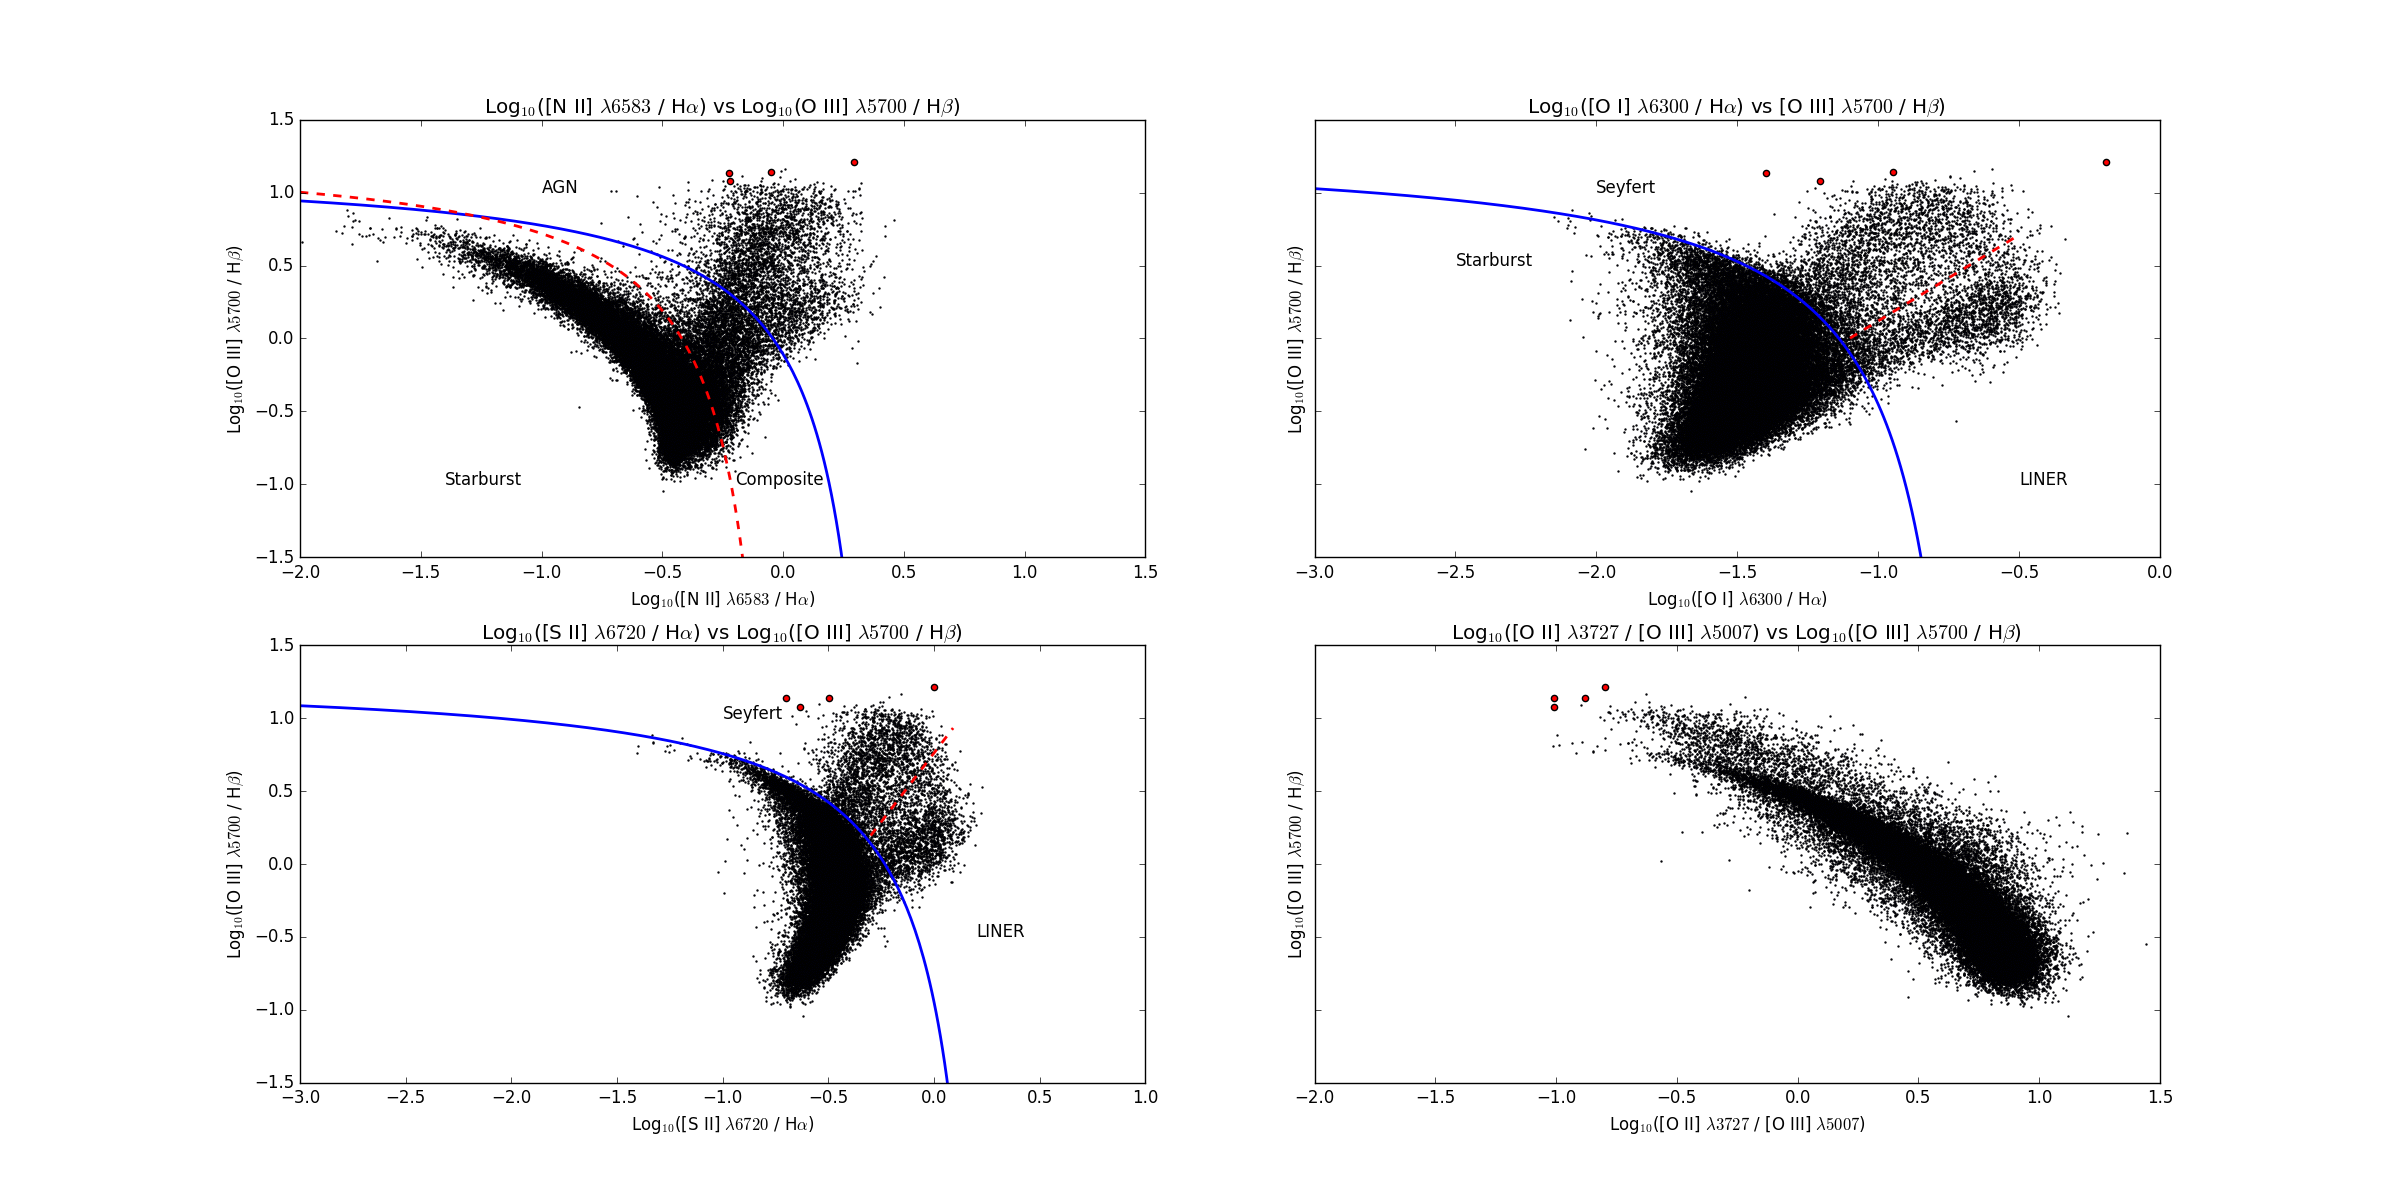
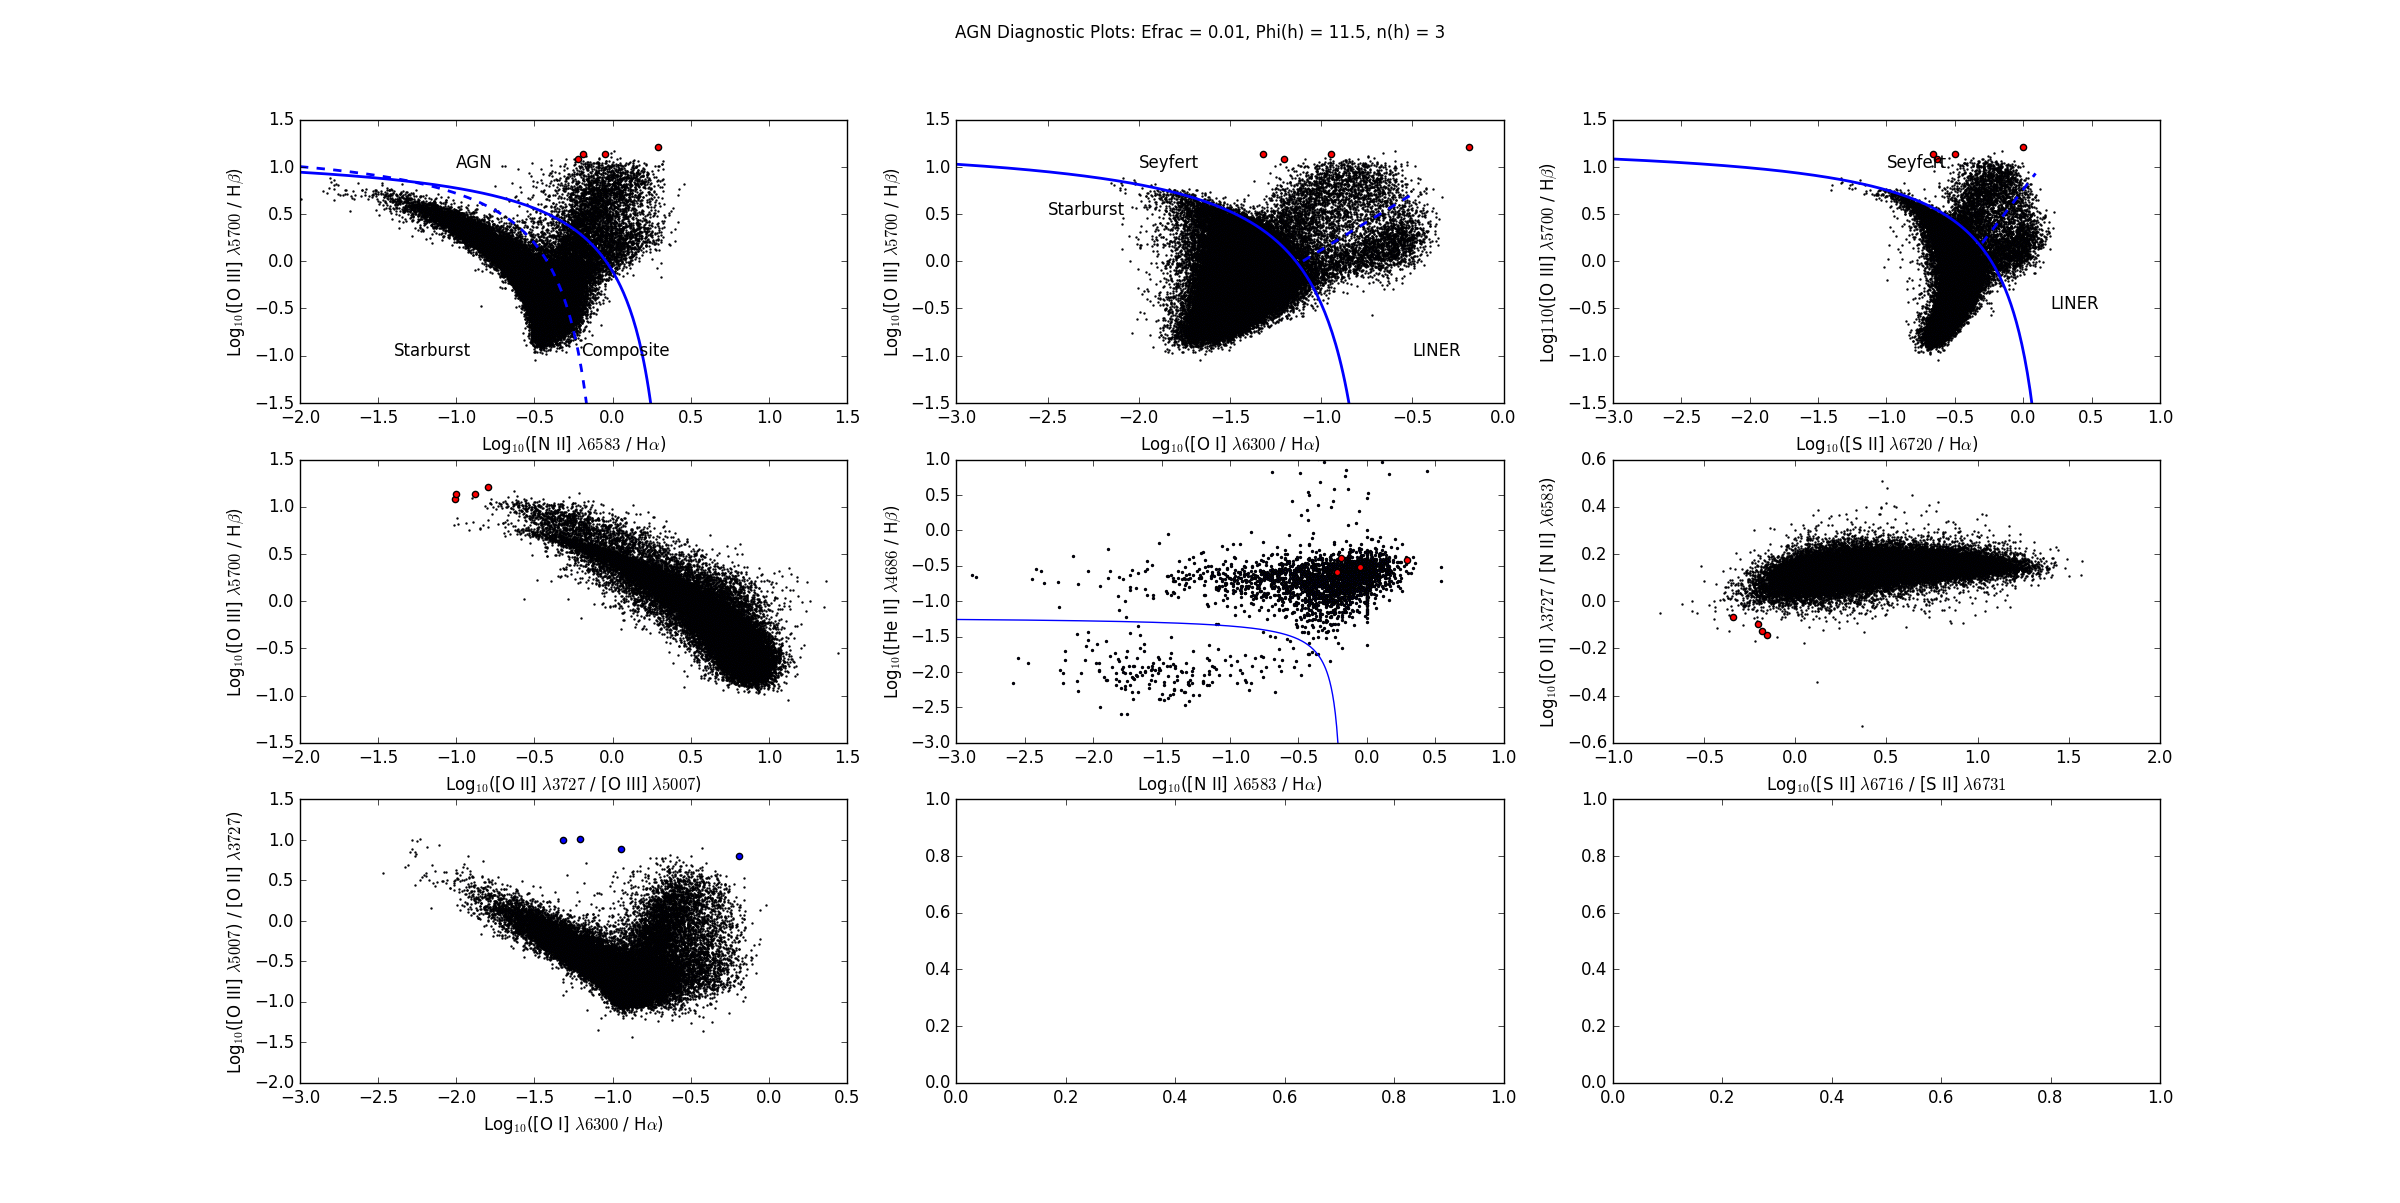
I forgot to upload these last night.  Made the supertitles for all the plots and did the plots with the new phi(h) value.  Looking better, but I think our metallicity might be wrong.  I'm running sims with 3 times solar metallicity and 1 solar metallicity just to see what changes.

diff --git a/DiagnosticPlots.py b/DiagnosticPlots.py
@@ -37,7 +37,7 @@ d2=pd.DataFrame({'Temperature': ['10^4','10^5', '10^6', '10^7']},dtype=object) #
 
 for root, dirs, files in os.walk(rootdirectory, topdown=False):
     for name in files:
-        if name.startswith('Efrac_01') and name.endswith('.lin'):
+        if name.startswith('PhiH144771') and name.endswith('.lin'):
             print name
             #only read columns from list cols
             dfs.append(pd.read_csv(os.path.join(root, name), delimiter="\t", usecols=['TOTL  4861A','O  3  5007A', 'NE 5  3426A', 'NE 3  3869A',
@@ -84,7 +84,7 @@ y2 = 1.3+np.divide(0.61,x2-0.05)
 ax1.scatter(np.log10(np.divide(SDSS_Data[18],SDSS_Data[17])),np.log10(np.divide(SDSS_Data[13],SDSS_Data[11])), s=0.5, c='b')
 ax1.scatter(d['N II / H-Alpha'],d['O III / H-Beta'], c= 'r')
 ax1.plot(x1,y1,'b-',x2,y2,'b--',linewidth = 2)
-ax1.set_title(r'Log$_{10}$([N II] $\lambda 6583$ / H$\alpha$) vs Log$_{10}$(O III] $\lambda 5700$ / H$\beta$) ')
+#ax1.set_title(r'Log$_{10}$([N II] $\lambda 6583$ / H$\alpha$) vs Log$_{10}$(O III] $\lambda 5700$ / H$\beta$) ')
 ax1.set_ylim(np.log10(10**(-1.5)), np.log10(10**(1.5)))
 ax1.set_xlim(np.log10(10**(-2)), np.log10(10**1.5))
 ax1.set_ylabel(r'Log$_{10}$([O III] $\lambda 5700$ / H$\beta$)')
@@ -100,8 +100,8 @@ y4 = 1.18*x4+1.3
 ax2.scatter(np.log10(np.divide(SDSS_Data[15],SDSS_Data[17])),np.log10(np.divide(SDSS_Data[13],SDSS_Data[11])), s=0.5, c='b')
 ax2.scatter(d['O I / H-Alpha'],d['O III / H-Beta'], c='r')
 ax2.plot(x3,y3,x4,y4,'b--',linewidth = 2)
-ax2.set_title(r'(Log$_{10}$([O I] $\lambda 6300$ / H$\alpha$) vs [O III] $\lambda 5700$ / H$\beta$) ')
-ax2.set_title(r'Log$_{10}$([O I] $\lambda 6300$ / H$\alpha$) vs [O III] $\lambda 5700$ / H$\beta$) ')
+#ax2.set_title(r'(Log$_{10}$([O I] $\lambda 6300$ / H$\alpha$) vs [O III] $\lambda 5700$ / H$\beta$) ')
+#ax2.set_title(r'Log$_{10}$([O I] $\lambda 6300$ / H$\alpha$) vs [O III] $\lambda 5700$ / H$\beta$) ')
 ax2.set_ylim(np.log10(10**(-1.5)), np.log10(10**(1.5)))
 ax2.set_xlim(np.log10(10**(-3)),np.log10(10**0))
 ax2.set_ylabel(r'Log$_{10}$([O III] $\lambda 5700$ / H$\beta$)')
@@ -118,17 +118,17 @@ y6 = 1.89 * x6 + 0.76
 ax3.scatter(np.log10(np.divide(np.add(SDSS_Data[19],SDSS_Data[20]),SDSS_Data[17])),np.log10(np.divide(SDSS_Data[13],SDSS_Data[11])), s=0.5, c='b')
 ax3.scatter(d['S II / H-Alpha'],d['O III / H-Beta'],c = 'r')
 ax3.plot(x5,y5,x6,y6, 'b--',linewidth=2)
-ax3.set_title(r'Log$_{10}$([S II] $\lambda 6720$ / H$\alpha$) vs Log$_{10}$([O III] $\lambda 5700$ / H$\beta$) ')
+#ax3.set_title(r'Log$_{10}$([S II] $\lambda 6720$ / H$\alpha$) vs Log$_{10}$([O III] $\lambda 5700$ / H$\beta$) ')
 ax3.set_xlim(np.log10(10**(-3)),np.log10(10**1))
 ax3.set_ylim(np.log10(10**(-1.5)), np.log10(10**(1.5)))
-ax3.set_ylabel(r'Log$_{10}$([O III] $\lambda 5700$ / H$\beta$)')
+ax3.set_ylabel(r'Log$1{10}$([O III] $\lambda 5700$ / H$\beta$)')
 ax3.set_xlabel(r'Log$_{10}$([S II] $\lambda 6720$ / H$\alpha$)')
 ax3.text(-1,1,'Seyfert')
 ax3.text(0.2,-0.5,'LINER')
 
 ax4.scatter(np.log10(np.divide(np.add(SDSS_Data[5],SDSS_Data[6]),SDSS_Data[13])),np.log10(np.divide(SDSS_Data[13],SDSS_Data[11])), s=0.5, c='b')
 ax4.scatter(d['O II / O III'],d['O III / H-Beta'],c='r')
-ax4.set_title(r'Log$_{10}$([O II] $\lambda 3727$ / [O III] $\lambda 5007$) vs Log$_{10}$([O III] $\lambda 5700$ / H$\beta$) ')
+#ax4.set_title(r'Log$_{10}$([O II] $\lambda 3727$ / [O III] $\lambda 5007$) vs Log$_{10}$([O III] $\lambda 5700$ / H$\beta$) ')
 ax4.set_ylabel(r'Log$_{10}$([O III] $\lambda 5700$ / H$\beta$)')
 ax4.set_xlabel(r'Log$_{10}$([O II] $\lambda 3727$ / [O III] $\lambda 5007$)')
 ax4.set_xlim(np.log10(10**(-2)),np.log10(10**1.5))
@@ -146,12 +146,16 @@ ax5.set_ylabel(r'Log$_{10}$([He II] $\lambda 4686$ / H$\beta$)')
 
 
 
-ax6.scatter(np.log10(np.divide(SDSS_Data[19],SDSS_Data[20])),np.log10(np.divide(np.add(SDSS_Data[5],SDSS_Data[6]),SDSS_Data[18])),s = 0.5)
-ax6.scatter(d['S II 6716/ S II 6731'],d['O II / N II'], c='r')
-
+ax6.scatter(np.log10(np.divide(np.add(SDSS_Data[5],SDSS_Data[6]),SDSS_Data[18])),np.log10(np.divide(SDSS_Data[19],SDSS_Data[20])),s = 0.5)
+ax6.scatter(d['O II / N II'],d['S II 6716/ S II 6731'], c='r')
+ax6.set_ylabel(r'Log$_{10}$([S II] $\lambda 6716$ / [S II] $\lambda 6731$')
+ax6.set_xlabel(r'Log$_{10}$([O II] $\lambda 3727$ / [N II] $\lambda 6583$)')
 
 ax7.scatter(np.log10(np.divide(SDSS_Data[16],SDSS_Data[17])),np.log10(np.divide(SDSS_Data[13],np.add(SDSS_Data[5],SDSS_Data[6]))),s = 0.5)
 ax7.scatter(d['O I / H-Alpha'],d['O III / O II'])
+ax7.set_xlabel(r'Log$_{10}$([O I] $\lambda 6300$ / H$\alpha$)')
+ax7.set_ylabel(r'Log$_{10}$([O III] $\lambda 5007$) / [O II] $\lambda 3727$)')
+plt.suptitle('AGN Diagnostic Plots: Efrac = 0.01, Phi(h) = 14.4771, n(h) = 3')
 plt.show()
 
 
